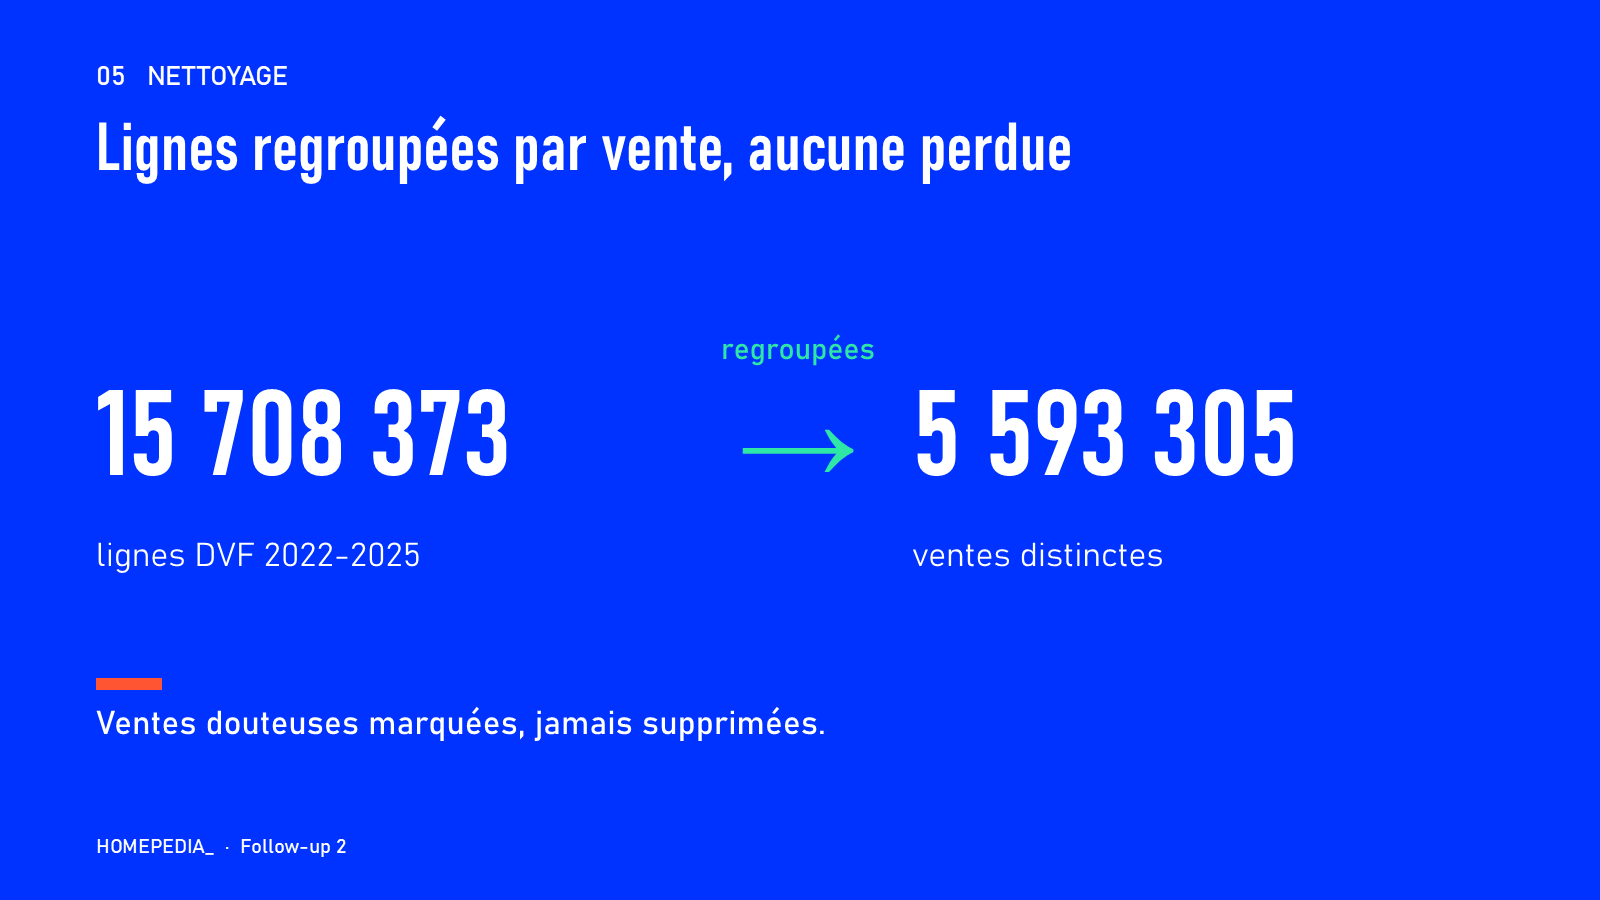
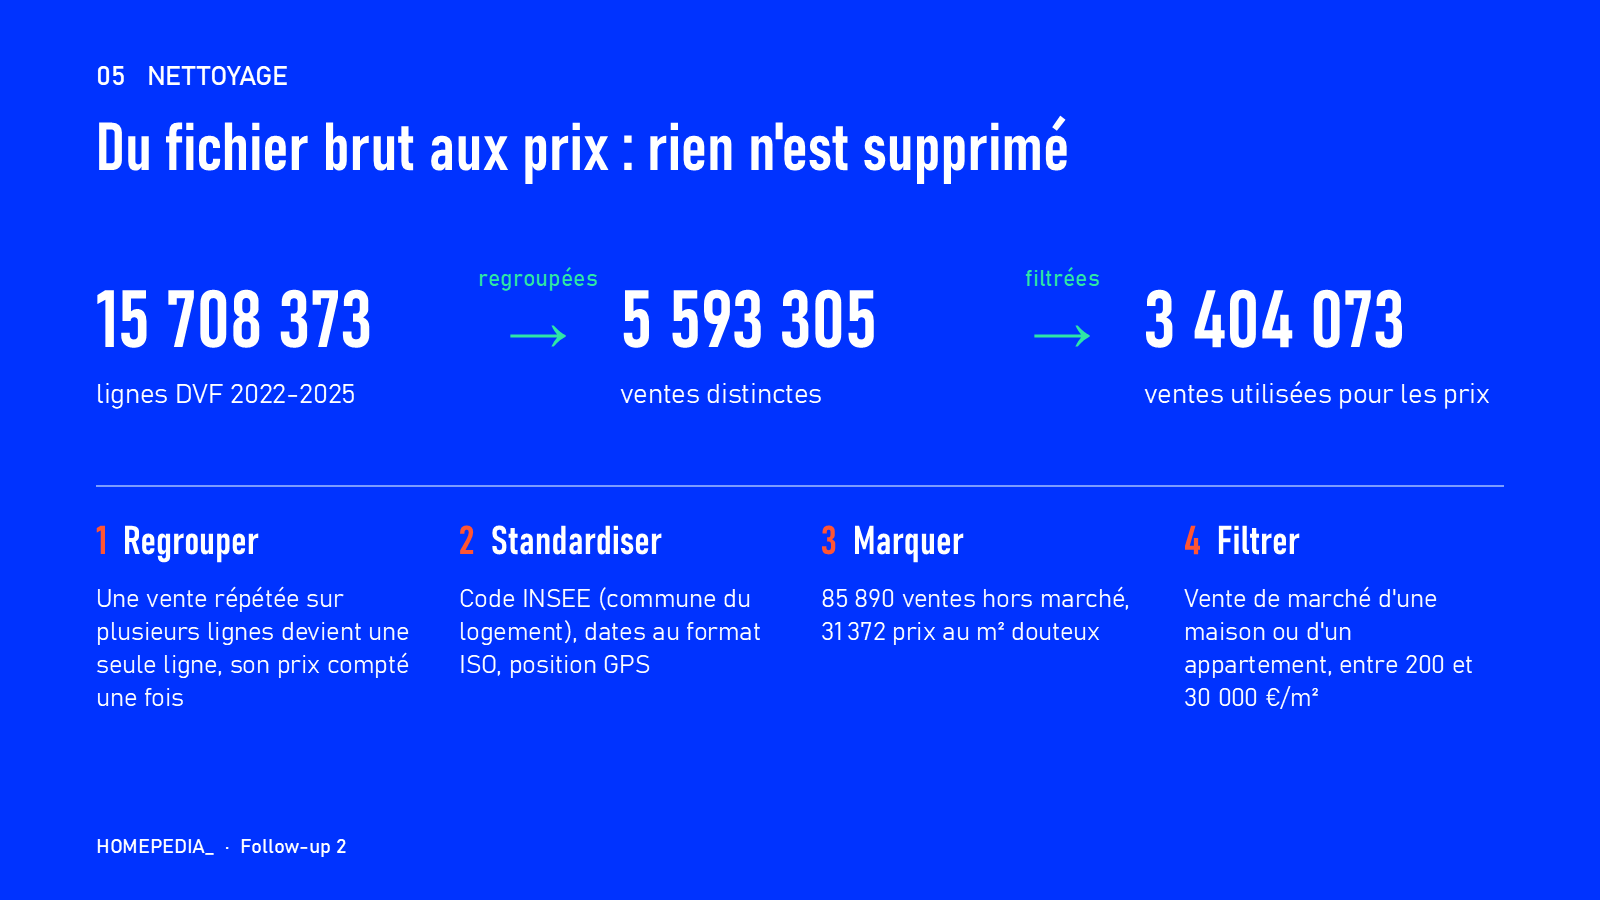
docs(followup2): slide Nettoyage retravaillee (chaine en 4 traitements) et organisation OVHcloud dans les notes

diff --git a/docs/followup2/build_deck.py b/docs/followup2/build_deck.py
@@ -295,37 +295,66 @@ Le schéma complet est documenté dans docs/schema_bdd.md.
 
 
 def s05_nettoyage(prs):
+    """Chaîne de nettoyage : 3 volumes (lignes -> ventes -> ventes retenues), puis les 4 traitements dans l'ordre."""
     s = prs.slides.add_slide(prs.slide_layouts[6])
+    s._element.cSld.set("name", "dense")
     fond(s, BLEU)
-    entete(s, 5, "Nettoyage", "Lignes regroupées par vente, aucune perdue", sombre=True)
-    y = Inches(3.0)
-    texte(s, MARGE, y, Inches(5.0), Inches(1.4), n(F["dvf_lignes_csv"]), taille=72, police=TITRE, couleur=BLANC)
-    texte(s, MARGE, y + Inches(1.45), Inches(5.0), Inches(0.5), f"lignes DVF {PERIODE}", taille=20,
-          police=LEGER, couleur=BLANC)
-    texte(s, MARGE + Inches(4.9), y - Inches(0.25), Inches(1.9), Inches(0.4), "regroupées", taille=18,
-          police=CORPS, couleur=VERT, align=PP_ALIGN.CENTER)
-    texte(s, MARGE + Inches(4.9), y + Inches(0.05), Inches(1.9), Inches(1.3), "→", taille=72, police=LEGER,
-          couleur=VERT, align=PP_ALIGN.CENTER)
-    texte(s, MARGE + Inches(6.8), y, Inches(5.0), Inches(1.4), n(F["dvf_mutations"]), taille=72, police=TITRE,
-          couleur=BLANC)
-    texte(s, MARGE + Inches(6.8), y + Inches(1.45), Inches(5.0), Inches(0.5), "ventes distinctes", taille=20,
-          police=LEGER, couleur=BLANC)
-    soulignement(s, MARGE, Inches(5.65))
-    texte(s, MARGE, Inches(5.85), Inches(11), Inches(0.5), "Ventes douteuses marquées, jamais supprimées.",
-          taille=20, police=CORPS, couleur=BLANC)
+    entete(s, 5, "Nettoyage", "Du fichier brut aux prix : rien n'est supprimé", sombre=True)
+
+    # 1. Les trois volumes, reliés par ce qui les sépare
+    volumes = [(n(F["dvf_lignes_csv"]), f"lignes DVF {PERIODE}"),
+               (n(F["dvf_mutations"]), "ventes distinctes"),
+               (n(F["ventes_retenues"]), "ventes utilisées pour les prix")]
+    passages = ["regroupées", "filtrées"]
+    w, y = Inches(3.0), Inches(2.25)
+    gap = (LARGEUR - 3 * w) / 2
+    for i, (gros, petit) in enumerate(volumes):
+        x = MARGE + i * (w + gap)
+        texte(s, x, y, w, Inches(0.9), gros, taille=48, police=TITRE, couleur=BLANC)
+        texte(s, x, y + Inches(0.9), w, Inches(0.4), petit, taille=16, police=LEGER, couleur=BLANC)
+        if i < 2:
+            texte(s, x + w, y - Inches(0.05), gap, Inches(0.35), passages[i], taille=14, couleur=VERT,
+                  align=PP_ALIGN.CENTER)
+            texte(s, x + w, y + Inches(0.2), gap, Inches(0.6), "→", taille=36, police=LEGER, couleur=VERT,
+                  align=PP_ALIGN.CENTER)
+
+    # 2. Les quatre traitements, dans l'ordre où ils s'appliquent
+    etapes = [
+        ("Regrouper", "Une vente répétée sur plusieurs lignes devient une seule ligne, son prix compté une fois"),
+        ("Standardiser", "Code INSEE (commune du logement), dates au format ISO, position GPS"),
+        ("Marquer", f"{n(F['dvf_hors_marche'])} ventes hors marché, {n(F['dvf_douteuses'])} prix au m² douteux"),
+        ("Filtrer", "Vente de marché d'une maison ou d'un appartement, entre 200 et 30 000 €/m²"),
+    ]
+    y2 = Inches(4.05)
+    trait(s, MARGE, y2, L - MARGE, y2, couleur=BLEU_CLAIR, epaisseur=1.0)
+    g2 = Inches(0.35)
+    w2 = (LARGEUR - 3 * g2) / 4
+    for i, (verbe, detail) in enumerate(etapes):
+        x = MARGE + i * (w2 + g2)
+        texte(s, x, y2 + Inches(0.25), w2, Inches(0.45),
+              [[(f"{i + 1}  ", {"couleur": ORANGE}), (verbe, {})]], taille=24, police=TITRE, couleur=BLANC)
+        texte(s, x, y2 + Inches(0.8), w2, Inches(1.5), detail, taille=15, police=LEGER, couleur=BLANC,
+              interligne=1.1)
     notes(s, f"""
-DVF a une ligne par lot, par parcelle et par nature de culture : une même vente apparaît sur plusieurs lignes,
-avec le prix total répété. Compter les lignes revient à compter plusieurs fois la même vente.
-On regroupe donc les lignes par vente (identifiant de mutation d'Etalab), sur les {F['annees_dvf']} années {PERIODE} :
-{n(F['dvf_lignes_csv'])} lignes → {n(F['dvf_mutations'])} ventes, dont {n(F['dvf_ventes_fin'])} en {F['annee_fin']}.
-Ce n'est pas une perte : un contrôle automatique vérifie, année par année, que la somme des lignes sources
-de chaque vente redonne exactement le total du fichier.
-Un logement répété sur plusieurs natures de culture (sol, jardin…) n'est compté qu'une fois.
-Standardisation : codes INSEE sur 5 caractères, dates ISO, arrondissements de Paris/Lyon/Marseille.
-Rien n'est supprimé, tout est marqué :
-- {n(F['dvf_douteuses'])} ventes avec un prix au m² douteux (plusieurs logements à des adresses différentes) ;
-- {n(F['dvf_hors_marche'])} ventes hors marché (échanges, adjudications, expropriations) ;
-- {F['dvf_codes_inconnus']} codes de communes absents du référentiel actuel, conservés et comptés.
+Le sujet demande une description précise de la méthode de nettoyage : la voici, de la donnée brute aux prix affichés.
+Trois volumes : {n(F['dvf_lignes_csv'])} lignes dans les fichiers DVF {PERIODE} → {n(F['dvf_mutations'])} ventes distinctes
+→ {n(F['ventes_retenues'])} ventes utilisées pour calculer les prix. Entre les deux derniers, rien n'est supprimé de la base :
+les ventes non retenues restent stockées, simplement exclues du calcul.
+1. Regrouper. DVF a une ligne par lot, par parcelle et par nature de culture : une même vente apparaît sur plusieurs
+   lignes, avec le prix total répété. Compter les lignes compterait plusieurs fois la même vente. On regroupe par
+   identifiant de vente (fourni par Etalab). Un logement répété sur plusieurs natures de culture (sol, jardin…)
+   n'est compté qu'une fois. Contrôle automatique, année par année : la somme des lignes regroupées redonne
+   exactement le total du fichier.
+2. Standardiser. Chaque vente est rattachée à sa commune par le code INSEE sur 5 caractères (la clé commune à
+   toutes nos sources) ; si une vente porte sur plusieurs communes, on prend celle du logement. Dates au format ISO,
+   arrondissements de Paris, Lyon et Marseille, position GPS de la vente. {F['dvf_codes_inconnus']} codes de communes
+   absents du référentiel actuel sont conservés et comptés, pas jetés.
+3. Marquer, jamais supprimer. {n(F['dvf_hors_marche'])} ventes hors marché (échanges, adjudications, expropriations :
+   leur prix n'est pas un prix de marché) et {n(F['dvf_douteuses'])} ventes au prix au m² douteux (plusieurs logements
+   à des adresses différentes vendus en un seul prix). Chaque marque est une colonne de la base : on peut toujours
+   revenir en arrière.
+4. Filtrer pour le calcul des prix. On ne garde que les ventes de marché d'un seul logement (maison ou appartement),
+   avec un prix entre 200 et {n(30000)} €/m² (garde-fou contre les erreurs de saisie).
 L'app affiche ces limites en clair sous la carte. Méthodologie complète : docs/schema_bdd.md.
 """)
 
@@ -489,6 +518,9 @@ Ce qu'on appelle un pipeline : une chaîne de traitements automatisée, de la so
 (ingestion → nettoyage → calcul Spark → contrôles PASS/FAIL), déclenchée sans intervention (planning ou nouvelle
 livraison), rejouable, et qui s'arrête en alerte si un contrôle échoue. Aujourd'hui nos chaînes existent et sont
 contrôlées, mais se lancent à la main : les automatiser est l'objet de ce palier.
+Organisation de l'équipe : un seul projet Data Platform, partagé à 4 (chacun invité comme membre de l'équipe),
+qui porte les données, les pipelines et l'app ; il est facturé au compte qui l'héberge. Chacun peut garder son propre
+projet comme bac à sable (tester un notebook, un job, un modèle) ; le code passe par un dépôt Git commun.
 La slide suivante montre comment les données sont organisées (domaines et couches), puis une fiche par domaine.
 """)
 
